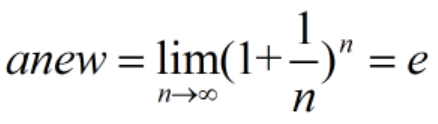
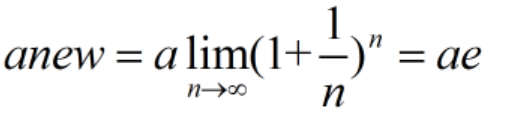
add my new understanding of e

Changed region(s): [[0.0, 0.0522, 0.9795, 0.6783], [0.6233, 0.7043, 0.742, 0.9391], [0.3562, 0.7043, 0.5046, 0.8609]]

diff --git a/e/e.md b/e/e.md
@@ -14,20 +14,24 @@ e的定义代表什么？
 ●过一天体积变为原来二倍这种能力是他的整体能力还是每个细胞都有这种能力。  
 ●这种变化是渐变还是突变
 
-假如是突变，那这个模型很好理解 
+假如是突变，那这个模型很好理解，
 假如是渐变，那么问题就会有点麻烦，渐渐长出的新的“肉”也具有过一天体积变为原来二倍的能力。
 如果这种渐变的速度是均匀的，并且这种能力的最小单位是a/24。  
-那么我只需每个小时来观察一次，因为半个小时他只能长出a/48，a/48还不具有渐渐增长的能力。
-1个小时后，体积变为anew = a（1+1/24），并且anew作为一个整体具有渐渐增长的能力。
-2个小时后，体积变为anew = anew*(1+1/24) = a（1+1/24）（1+1/24）,并且anew作为一个整体具有渐渐增长的能力。
-。。。。。。
-24小时后，anew = a(1+1/24)^24
+那么我只需每个小时来观察一次，因为半个小时他只能长出a/48，a/48还不具有渐渐增长的能力。  
+1个小时后，体积变为anew = a（1+1/24），并且anew作为一个整体具有渐渐增长的能力。  
+2个小时后，体积变为anew = anew*(1+1/24) = a（1+1/24）（1+1/24）,并且anew作为一个整体具有渐渐增长的能力。  
+。。。。。。  
+24小时后，anew = a(1+1/24)^24  
 
 如果这种能力的最小单位是a/48.24小时后anew = a(1+1/48)^48  
 如果这种能力的最小单位是a/100.24小时后anew = a(1+1/100)^100
 
 假设这种能力的最小单位是细胞，而这个外星生物有无穷多个细胞。那么24小时后：
 ![](https://raw.githubusercontent.com/MartinFromChina/math/master/picture/anew.PNG)
+
+总结起来就是：在个体a的一个逐渐的（有必要是均匀的吗？）翻倍增长的周期内，
+将其翻倍增长的能力细分为更小的单元可以使最终的增长结果大于2a。
+将翻倍增长的能力无限细分，最终结果将趋于ea。
 
 
 
